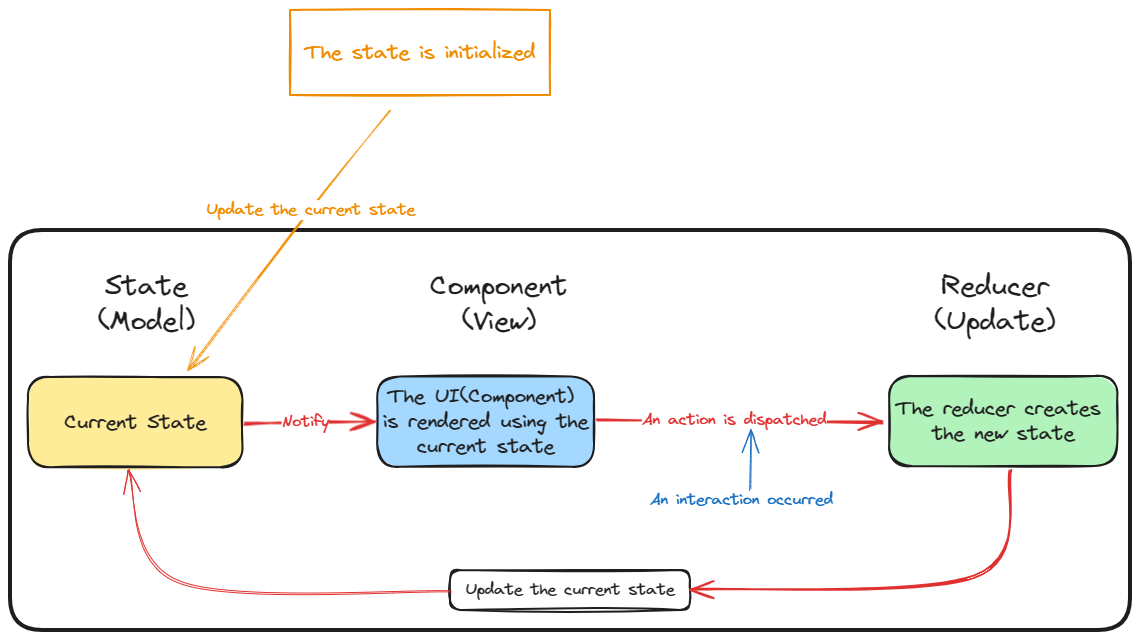
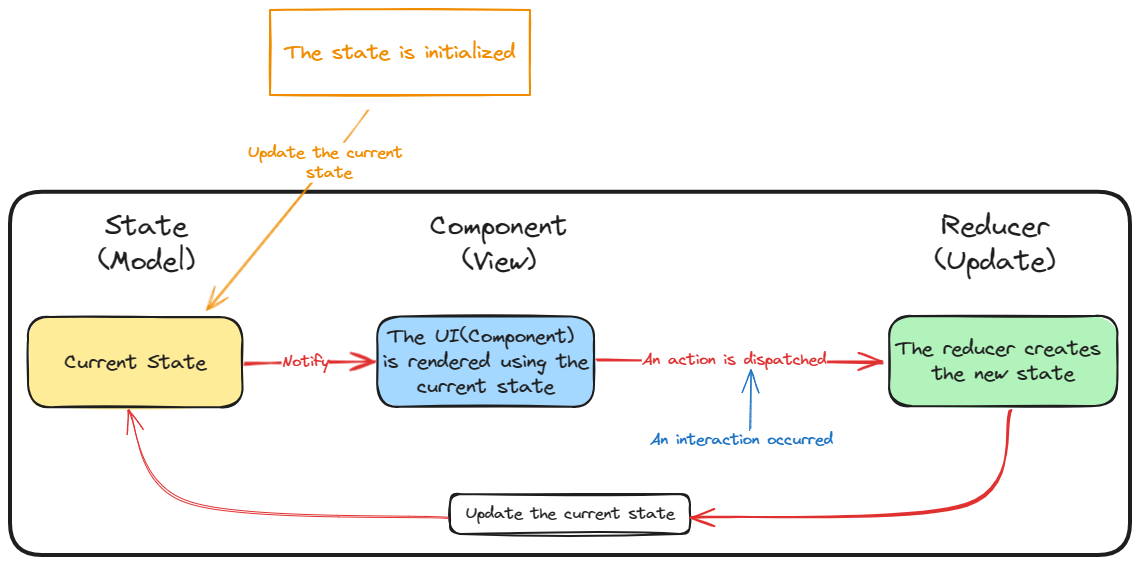
[update] improve readme

Changed region(s): [[0.0, 0.0, 1.0, 0.9929], [0.0, 0.6319, 0.2149, 0.7823], [0.5833, 0.7522, 0.7368, 0.8124]]

diff --git a/README.md b/README.md
@@ -4,7 +4,7 @@ Avalonia Redux is an assembled cross-platform application framework based on Red
 
 MVU is an implementation idea based on one-way data flow, as shown in the figure below:
 
-<p><img src="./assets/mvu.png" alt="redux-data-flow"></p>
+<p><img src="./assets/mvu.png" alt="redux-data-flow" width="80%"></p>
 
 - **1. Application starts, and state is initialized, and it's current state.**
 - **2. Current state changes will trigger the UI to be rendered.**
